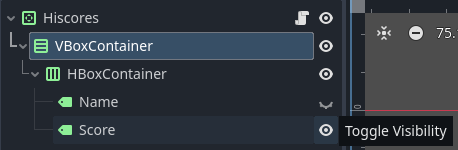
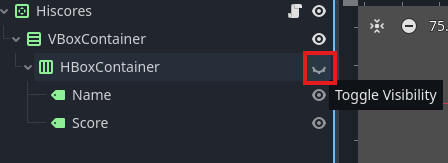
Update dictionary entries for consistency and refactor mass update logic in actor handling

Changed region(s): [[0.0, 0.0, 1.0, 1.0], [0.0938, 0.64, 0.2812, 0.8], [0.125, 0.8267, 0.25, 0.9067]]

diff --git a/_posts/2024-11-16-godot-golang-mmo-part-9.md b/_posts/2024-11-16-godot-golang-mmo-part-9.md
@@ -118,7 +118,7 @@ func remove_hiscore(name: String) -> void:
         if name_label.text == name:
             _scores.remove_at(len(_scores) - i - 1)
             
-            entry.queue_free()
+            entry.free()
             return
 ```
 
@@ -152,7 +152,101 @@ Now, when I run the game, I should expect to see "Bob Barker" at the top of the 
 Let's fix that by simply clicking the 👁️ icon to the right of the **HBoxContainer** template in the scene editor of the **Hiscores** scene. This will hide the placeholder entry and make everything right with the world.
 ![Hiscores scene with test data hidden](/assets/css/images/posts/2024/11/16/hiscores-scene-test-data-hidden.png)
 
+You might instead want to keep them visible while you are working on the scene, and hide them programmatically, so for that, feel free to add the following to the `_ready` function in `res://classes/hiscores/hiscores.gd`:
+
+```directory
+/client/classes/hiscores/hiscores.gd
+```
+
+```gdscript
+func _ready() -> void:
+    _entry_template.hide()
+```
+
 Make sure to remove the test code from the `_ready` function in `res://states/connected/connected.gd`, and remove the **Hiscores** scene from the `Connected` scene, as that was just a test. Let's actually add it to the game now.
 
 ## Adding live scores to the game
+
+We are already able to drop in our new **Hiscores** scene to our **InGame** state scene, but first we will need a little restructuring to make it easier to manage the positioning of the elements. Restructure the `UI` canvas layer in the **InGame** scene so that it looks like this:
+- **UI** - called `UI`
+  - **VBoxContainer**
+    - **LineEdit**
+    - **Hiscores**
+    - **Log**
+
+1. Choose the **Full Rect** anchor preset for the **VBoxContainer** node 
+2. Choose the **Shrink End** container sizing option for both the **Vertical** and **Horizontal** options for the **Hiscores** node
+3. Set the **Custom Minimum Size**'s **x** value to 200px for the **Hiscores** node
+4. Set the  **Custom Minimum Size**'s **y** value to 150px for the **Hiscores** node
+
+![New InGame scene](/assets/css/images/posts/2024/11/16/new-ingame-scene.png)
+
+Now, we will have broken our `ingame.gd` script by moving the LineEdit and Log nodes under the VBoxContainer, so let's fix that as well as add a reference to our new Hiscores node.
+
+```directory
+/client/states/ingame/ingame.gd
+```
+
+```gdscript
+@onready var _line_edit := $UI/VBoxContainer/LineEdit as LineEdit
+@onready var _log := $UI/VBoxConainter/Log as Log
+@onready var _hiscores := $UI/VBoxContainer/Hiscores as Hiscores
+```
+
+Now, whenever we update an actor's mass, we should also update the hiscore list. Luckily we have a function called `_set_actor_mass` already, so let's add to that:
+
+```directory
+/client/states/ingame/ingame.gd
+```
+
+```gdscript
+func _set_actor_mass(actor: Actor, new_mass: float) -> void:
+    # ...
+    _hiscores.set_hiscore(actor.actor_name, roundi(new_mass))
+```
+
+Now, whenever an actor's mass changes, the hiscore list will update accordingly. But we also need to remove the actor from the hiscores when they are removed from the game, so go ahead and add a similar line to the `_remove_player` function:
+
+```directory
+/client/states/ingame/ingame.gd
+```
+
+```gdscript
+func _remove_player(actor: Actor) -> void:
+    # ...
+    _hiscores.remove_hiscore(actor.actor_name)
+```
+
+Now, when we run the game, we should see the hiscore list updating as we eat things, and it should dynamically sort itself as different players overtake each other.
+
+There is just one problem, which is that the player's hiscore won't be added when they first join the game - only when they first eat something. Harder to notice is the fact that radius updates from the server (e.g. if an actor's radius is mismatched from the client) won't update the hiscore list either. Both of these are due to the fact that we are setting the actor's radius directly rather than via the `_set_actor_mass` function. Luckily, it is easy to fix, since we just need to use the `_rad_to_mass` function to calculate the mass from the radius, then call `_set_actor_mass` with the result.
+
+```directory
+/client/states/ingame/ingame.gd
+```
+
+```gdscript
+func _add_actor(actor_id: int, actor_name: String, x: float, y: float, radius: float, speed: float, is_player: bool) -> void:
+    var actor := Actor.instantiate(actor_id, actor_name, x, y, radius, speed, is_player)
+    _set_actor_mass(actor, _rad_to_mass(radius))
+    # ...
+
+func _update_actor(actor_id: int, x: float, y: float, direction: float, speed: float, radius: float, is_player: bool) -> void:
+    var actor := _players[actor_id]
+    _world.add_child(actor)
+    actor.radius = radius
+    _set_actor_mass(actor, _rad_to_mass(radius))
+    # ...
+```
+
+That should be everything we need to add live hiscores to the game. Here's what it looks like now:
+<video controls>
+  <source src="/assets/css/images/posts/2024/11/16/ingame-hiscores.webm" type="video/webm">
+  Your browser does not support the video tag.
+</video>
+
+Now, let's tackle stage 2 of our plan: saving the player's best score to the database.
+
+## Saving players in the database
+
 *Coming soon...*

diff --git a/_posts/2024-11-15-godot-golang-mmo-part-8.md b/_posts/2024-11-15-godot-golang-mmo-part-8.md
@@ -216,22 +216,22 @@ func _handle_spore_consumed(sender_id: int, spore_consumed_msg: packets.SporeCon
         if spore_id in _spores:
             var spore := _spores[spore_id]
             var spore_mass := _rad_to_mass(spore.radius)
-            actor.update_mass(actor_mass + spore_mass)
+            _set_actor_mass(actor, actor_mass + spore_mass)
             _remove_spore(spore)
 
 func _rad_to_mass(radius: float) -> float:
     return radius * radius * PI
 ```
 
-This is pretty much a direct translation of the Go code we wrote for the server, so I don't think I need to explain it in detail. The only difference is that instead of having a `nextRadius` method, we are going to define a method in `actor.gd` called `update_mass`, which will perform the same calculations. This way, it's a bit more encapsulated and aptly named.
+This is pretty much a direct translation of the Go code we wrote for the server, so I don't think I need to explain it in detail. The only difference is that instead of having a `nextRadius` method, we are going to define a function called `_set_actor_mass`, which will perform the same calculations. This way, it gives us an opportunity to add some extra logic if we need to in the future.
 
 ```directory
-/client/objects/actor/actor.gd
+/client/states/ingame/ingame.gd
 ```
 
 ```gd
-func update_mass(new_mass: float) -> void:
-    radius = sqrt(new_mass / PI)
+func _set_actor_mass(actor: Actor, new_mass: float) -> void:
+    actor.radius = sqrt(new_mass / PI)
 ```
 
 So now, if you run the game, you might be surprised to see that nobody is growing! There is one key detail we missed: `_draw` is only called once when an actor is created, so we don't see anyone's size change when we update `radius`. Even if we did, it would be meaningless because we also forgot to update the collision shape's radius along with the visual radius. Let's make sure it's impossible to forget this by adding a setter for the radius that updates the collision shape and redraws the actor.
@@ -250,7 +250,7 @@ var radius: float:
 
 This is a cool feature of Godot that means the `radius` property will automatically update the collision shape and redraw the actor whenever it appears on the left-hand-side of an `=` sign. This effectively makes it so that we can't forget to update the collision shape and redraw the actor when we change the radius.
 
-**Now** if we run the game, we will see other players growing in size when they eat, but you won't see yourself grow yet! What gives? This is because we aren't sending the spore consumption event to ourselves (no need since we already know we ate the spore). We simply need to use our new `update_mass` method in the `_consume_spore` method we wrote in <a href="/2024/11/14/godot-golang-mmo-part-7#consuming-spores" target="_blank">the last part</a>.
+**Now** if we run the game, we will see other players growing in size when they eat, but you won't see yourself grow yet! What gives? This is because we aren't sending the spore consumption event to ourselves (no need since we already know we ate the spore). We simply need to use our new `_set_actor_mass` method in the `_consume_spore` method we wrote in <a href="/2024/11/14/godot-golang-mmo-part-7#consuming-spores" target="_blank">the last part</a>.
 
 ```directory
 /client/objects/actor/actor.gd
@@ -261,7 +261,7 @@ func _consume_spore(spore: Spore) -> void:
     var player = _actors[GameManager.client_id]
     var player_mass := _rad_to_mass(player.radius)
     var spore_mass := _rad_to_mass(spore.radius)
-    player.update_mass(player_mass + spore_mass)
+    _set_actor_mass(player, player_mass + spore_mass)
     
     # ...
 ```
@@ -324,7 +324,7 @@ func _consume_actor(actor: Actor) -> void:
     var player := _players[GameManager.client_id]
     var player_mass := _rad_to_mass(player.radius)
     var actor_mass := _rad_to_mass(actor.radius)
-    player.update_mass(player_mass + actor_mass)
+    _set_actor_mass(player, player_mass + actor_mass)
 
     var packet := packets.Packet.new()
     var player_consumed_msg := packet.new_player_consumed()